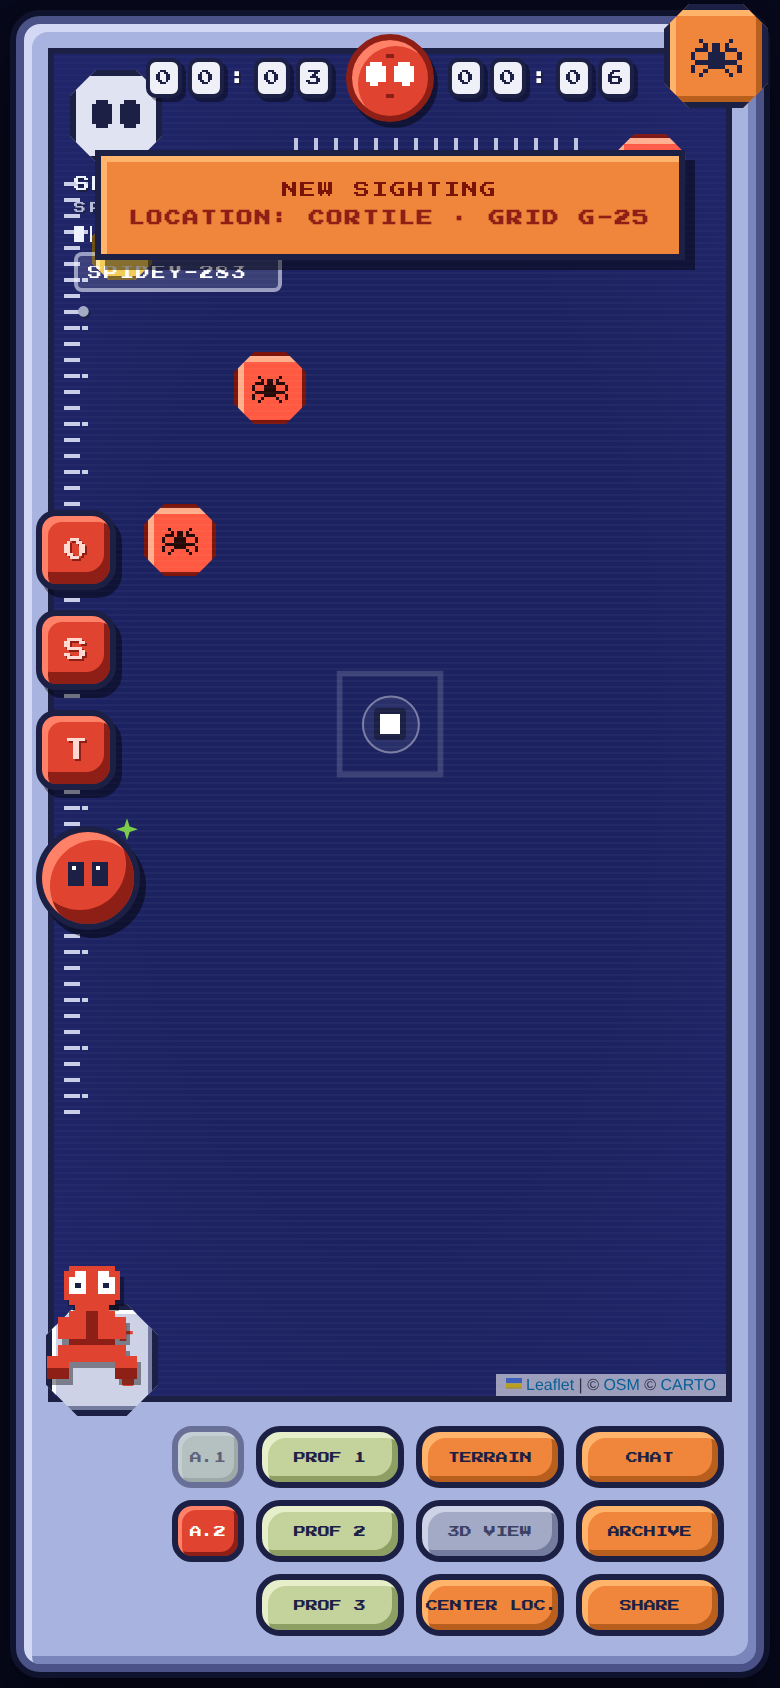
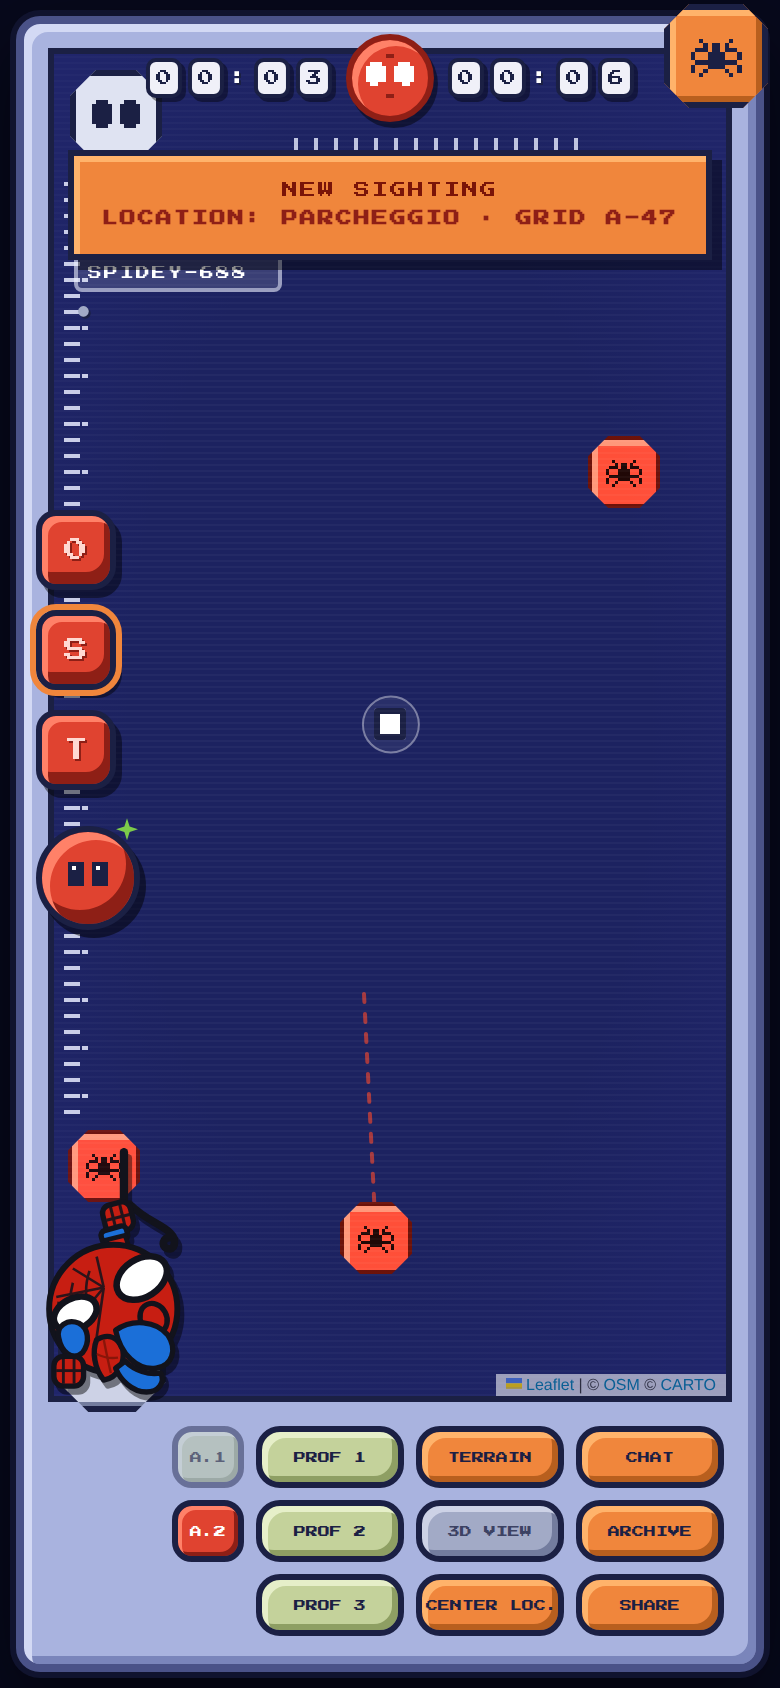
New hanging chibi mascot, fix terrain overflow, sound on by default
Replace the pixel mascot with a hand-traced SVG of a chibi
Spider-Man hanging from a web thread (fist gripping the line, blue
wrist band, slanted almond eyes, folded blue legs). Fix the TERRAIN
toggle wiping Leaflet's own container classes via className
assignment, which dropped overflow:hidden and let tiles bleed past
the game frame. Sound now defaults to on (persisted), with the
AudioContext unlocked on first touch for iOS.

Claude-Session: https://claude.ai/code/session_01SNPYMxKbRTqF7mdzkvdENQ

diff --git a/index.html b/index.html
@@ -204,26 +204,25 @@
 
   /* pupazzetto Spider-Man sull'ottagono grigio: angolo in basso a sinistra */
   .pupo{
-    position:absolute; z-index:955; left:-10px; bottom:-10px;
-    width:74px; height:86px; background:none; padding:0;
+    position:absolute; z-index:955; left:-6px; bottom:-8px;
+    width:88px; height:150px; background:none; padding:0;
   }
   .pupo .octobg{
-    position:absolute; left:6px; bottom:0;
-    width:62px; height:62px;
+    position:absolute; left:8px; bottom:0;
+    width:60px; height:60px;
     background:var(--grey-hi);
     clip-path: polygon(28% 0,72% 0,100% 28%,100% 72%,72% 100%,28% 100%,0 72%,0 28%);
     border:3px solid var(--ink);
     box-shadow: inset 2px 2px 0 #fff, inset -2px -2px 0 var(--grey-lo);
   }
   .pupo .octobg::before{
-    content:'+'; position:absolute; right:8px; top:6px;
-    color:var(--red); font-size:13px; font-family:'Press Start 2P',monospace;
+    content:'+'; position:absolute; right:7px; top:5px;
+    color:var(--red); font-size:12px; font-family:'Press Start 2P',monospace;
   }
-  .pupo .octobg::after{
-    content:''; position:absolute; right:9px; bottom:12px; width:6px; height:6px;
-    background:var(--red); box-shadow:0 -10px 0 0 transparent; border-radius:1px;
+  .pupo svg{
+    position:absolute; left:0; bottom:2px; width:86px; height:148px;
+    filter:drop-shadow(2px 3px 0 rgba(0,0,0,.45));
   }
-  .pupo svg{ position:absolute; left:0; top:0; width:64px; height:74px; filter:drop-shadow(2px 3px 0 rgba(0,0,0,.4)); }
   .pupo:active{ transform:translateY(2px); }
 
   /* ============ pannello comandi in basso (griglia identica alla foto) ============ */
@@ -379,9 +378,9 @@
     .pill{ font-size:6px; padding:10px 2px 9px; letter-spacing:0; }
     .chip{ font-size:6px; padding:10px 6px 9px; letter-spacing:0; }
     .bottom{ padding-left:62px; gap:6px; }
-    .pupo{ width:66px; height:78px; }
-    .pupo .octobg{ width:56px; height:56px; }
-    .pupo svg{ width:58px; height:68px; }
+    .pupo{ width:78px; height:132px; }
+    .pupo .octobg{ width:54px; height:54px; }
+    .pupo svg{ width:76px; height:130px; }
   }
   @media (orientation: landscape) and (max-height:500px){
     .console{ max-width:none; }
@@ -507,25 +506,50 @@ const MASKR = `<svg viewBox="0 0 16 16" xmlns="http://www.w3.org/2000/svg" shape
 <rect x="9" y="5" width="5" height="4"/><rect x="10" y="4" width="3" height="1"/><rect x="11" y="9" width="2" height="1"/>
 </g>
 <g fill="#8E1F16"><rect x="7" y="2" width="2" height="1"/><rect x="7" y="12" width="2" height="1"/></g></svg>`;
-/* pupazzetto Spider-Man seduto (per l'angolo in basso a sinistra) */
-const PUPO = `<svg viewBox="0 0 20 24" xmlns="http://www.w3.org/2000/svg" shape-rendering="crispEdges">
-<g fill="#E04330">
-<rect x="6" y="1" width="8" height="7"/><rect x="5" y="2" width="1" height="5"/><rect x="14" y="2" width="1" height="5"/>
-<rect x="7" y="8" width="6" height="1"/>
-<rect x="6" y="9" width="8" height="6"/>
-<rect x="4" y="10" width="2" height="4"/><rect x="14" y="10" width="2" height="4"/>
-<rect x="4" y="15" width="12" height="3"/>
-<rect x="2" y="17" width="4" height="3"/><rect x="14" y="17" width="4" height="3"/>
+/* chibi Spider-Man appeso al filo (angolo in basso a sinistra) */
+const PUPO = `<svg viewBox="0 0 128 212" xmlns="http://www.w3.org/2000/svg">
+<path d="M69 0 V44" fill="none" stroke="#12131c" stroke-width="7" stroke-linecap="round"/>
+<path d="M74 44 C88 58 100 60 108 68 C114 74 112 84 105 81 C100 79 102 72 107 72" fill="none" stroke="#12131c" stroke-width="6.5" stroke-linecap="round"/>
+<g transform="rotate(-14 64 55)">
+  <rect x="52" y="43" width="24" height="24" rx="7" fill="#C71E12" stroke="#12131c" stroke-width="4.5"/>
+  <g stroke="#12131c" stroke-width="2.6" fill="none" opacity=".9">
+    <path d="M60 45 V65"/><path d="M68 45 V65"/><path d="M54 55 H74"/>
+  </g>
 </g>
-<g fill="#8E1F16">
-<rect x="9" y="9" width="2" height="6"/><rect x="6" y="14" width="8" height="1"/>
-<rect x="2" y="19" width="4" height="2"/><rect x="14" y="19" width="4" height="2"/>
+<g transform="rotate(-16 61 70)">
+  <rect x="50" y="64" width="22" height="12" rx="4" fill="#1B6FD8" stroke="#12131c" stroke-width="4.5"/>
 </g>
-<g fill="#fff">
-<rect x="6" y="3" width="3" height="3"/><rect x="7" y="2" width="2" height="1"/>
-<rect x="11" y="3" width="3" height="3"/><rect x="11" y="2" width="2" height="1"/>
+<path d="M54 74 L70 70 L74 82 L58 86 Z" fill="#C71E12" stroke="#12131c" stroke-width="4"/>
+<circle cx="60" cy="132" r="54" fill="#C71E12" stroke="#12131c" stroke-width="5"/>
+<g fill="none" stroke="#12131c" stroke-width="2.2" opacity=".85">
+  <path d="M52 114 L46 88"/>
+  <path d="M52 114 L26 98"/>
+  <path d="M52 114 L12 122"/>
+  <path d="M52 114 L24 148"/>
+  <path d="M52 114 L44 170"/>
+  <path d="M40 100 C36 112 36 124 41 136"/>
+  <path d="M26 110 C23 120 24 132 28 142"/>
+  <path d="M14 126 C13 134 15 142 19 148"/>
 </g>
-<g fill="#1B2044"><rect x="7" y="4" width="1" height="1"/><rect x="12" y="4" width="1" height="1"/></g>
+<g fill="#fff" stroke="#12131c" stroke-width="5.5">
+  <ellipse cx="84" cy="106" rx="23" ry="16" transform="rotate(-33 84 106)"/>
+  <ellipse cx="28" cy="136" rx="19" ry="13" transform="rotate(-26 28 136)"/>
+</g>
+<path d="M14 156 C12 147 21 140 31 144 C39 148 41 160 34 169 C25 177 16 167 14 156 Z" fill="#1B6FD8" stroke="#12131c" stroke-width="4.5" stroke-linejoin="round"/>
+<g>
+  <rect x="10" y="172" width="25" height="25" rx="8" fill="#C71E12" stroke="#12131c" stroke-width="4.5"/>
+  <g stroke="#12131c" stroke-width="2.4" fill="none" opacity=".9">
+    <path d="M18 174 V195"/><path d="M27 174 V195"/><path d="M12 184 H33"/>
+  </g>
+</g>
+<ellipse cx="94" cy="140" rx="11" ry="13" fill="#C71E12" stroke="#12131c" stroke-width="4.5" transform="rotate(-28 94 140)"/>
+<path d="M46 158 C56 152 64 156 68 166 C70 178 64 190 52 192 C44 182 42 168 46 158 Z" fill="#C71E12" stroke="#12131c" stroke-width="4.5" stroke-linejoin="round"/>
+<g stroke="#7a1408" stroke-width="2" fill="none" opacity=".8">
+  <path d="M52 158 C54 168 56 178 58 186"/>
+  <path d="M46 170 C52 173 58 174 64 173"/>
+</g>
+<path d="M62 150 C76 140 96 142 106 154 C114 166 110 180 96 182 C80 184 66 170 62 150 Z" fill="#1B6FD8" stroke="#12131c" stroke-width="4.5" stroke-linejoin="round"/>
+<path d="M70 176 C78 184 90 188 100 186 C104 194 98 202 88 202 C76 202 66 192 62 182 Z" fill="#1B6FD8" stroke="#12131c" stroke-width="4.5" stroke-linejoin="round"/>
 </svg>`;
 document.getElementById('logoTop').innerHTML = SPIDER('#1B2044');
 document.querySelector('.loader .lbadge').innerHTML = SPIDER('#1B2044');
@@ -539,7 +563,7 @@ const S = {
   me: null, meMarker: null, meAcc: null,
   spiders: [], reports: [],
   layerSpiders: null, layerReports: null, layerFx: null,
-  sound: false, track: false, pulse: false, trails: true,
+  sound: localStorage.getItem('smt1-sound') !== '0', track: false, pulse: false, trails: true,
   prof: 1, lastSight: Date.now(), boot: Date.now(),
   spawned: false, sightCount: 0,
 };
@@ -937,7 +961,10 @@ $('btnTerrain').onclick = () => {
   map.removeLayer(TILES[tileMode]);
   tileMode = tileMode === 'wire' ? 'terrain' : 'wire';
   TILES[tileMode].addTo(map);
-  $('map').className = 'mode-' + tileMode;
+  // niente className diretto: cancellerebbe le classi interne di Leaflet
+  // (inclusa .leaflet-container con overflow:hidden) facendo sbordare la mappa
+  $('map').classList.remove('mode-wire', 'mode-terrain');
+  $('map').classList.add('mode-' + tileMode);
   $('btnTerrain').classList.toggle('on', tileMode==='terrain');
 };
 $('btn3d').onclick = () => { toast('MODULO 3D OFFLINE'); beep(220,.15); };
@@ -968,7 +995,20 @@ $('chipA2').onclick = () => {
   toast(S.trails ? 'A.2 TRACCE ON' : 'A.2 TRACCE OFF');
 };
 $('key0').onclick = () => { if (S.me) map.setView(S.me, 15); S.track=false; $('keyT').classList.remove('on'); beep(440); toast('VISTA RESET'); };
-$('keyS').onclick = () => { S.sound = !S.sound; $('keyS').classList.toggle('on', S.sound); beep(880); toast(S.sound?'AUDIO ON':'AUDIO OFF'); };
+$('keyS').onclick = () => {
+  S.sound = !S.sound;
+  localStorage.setItem('smt1-sound', S.sound ? '1' : '0');
+  $('keyS').classList.toggle('on', S.sound);
+  beep(880); toast(S.sound?'AUDIO ON':'AUDIO OFF');
+};
+$('keyS').classList.toggle('on', S.sound);
+/* iOS sblocca l'audio solo dopo un gesto: prepara il contesto al primo tocco */
+document.addEventListener('pointerdown', () => {
+  try{
+    const ctx = beep.ctx || (beep.ctx = new (window.AudioContext||window.webkitAudioContext)());
+    if (ctx.state === 'suspended') ctx.resume();
+  }catch(e){}
+}, { once:true });
 $('keyT').onclick = () => { S.track = !S.track; $('keyT').classList.toggle('on', S.track); beep(880); toast(S.track?'TRACKING CONTATTO PIÙ VICINO':'TRACKING OFF'); };
 $('bigEye').onclick = () => newSighting(true);
 
